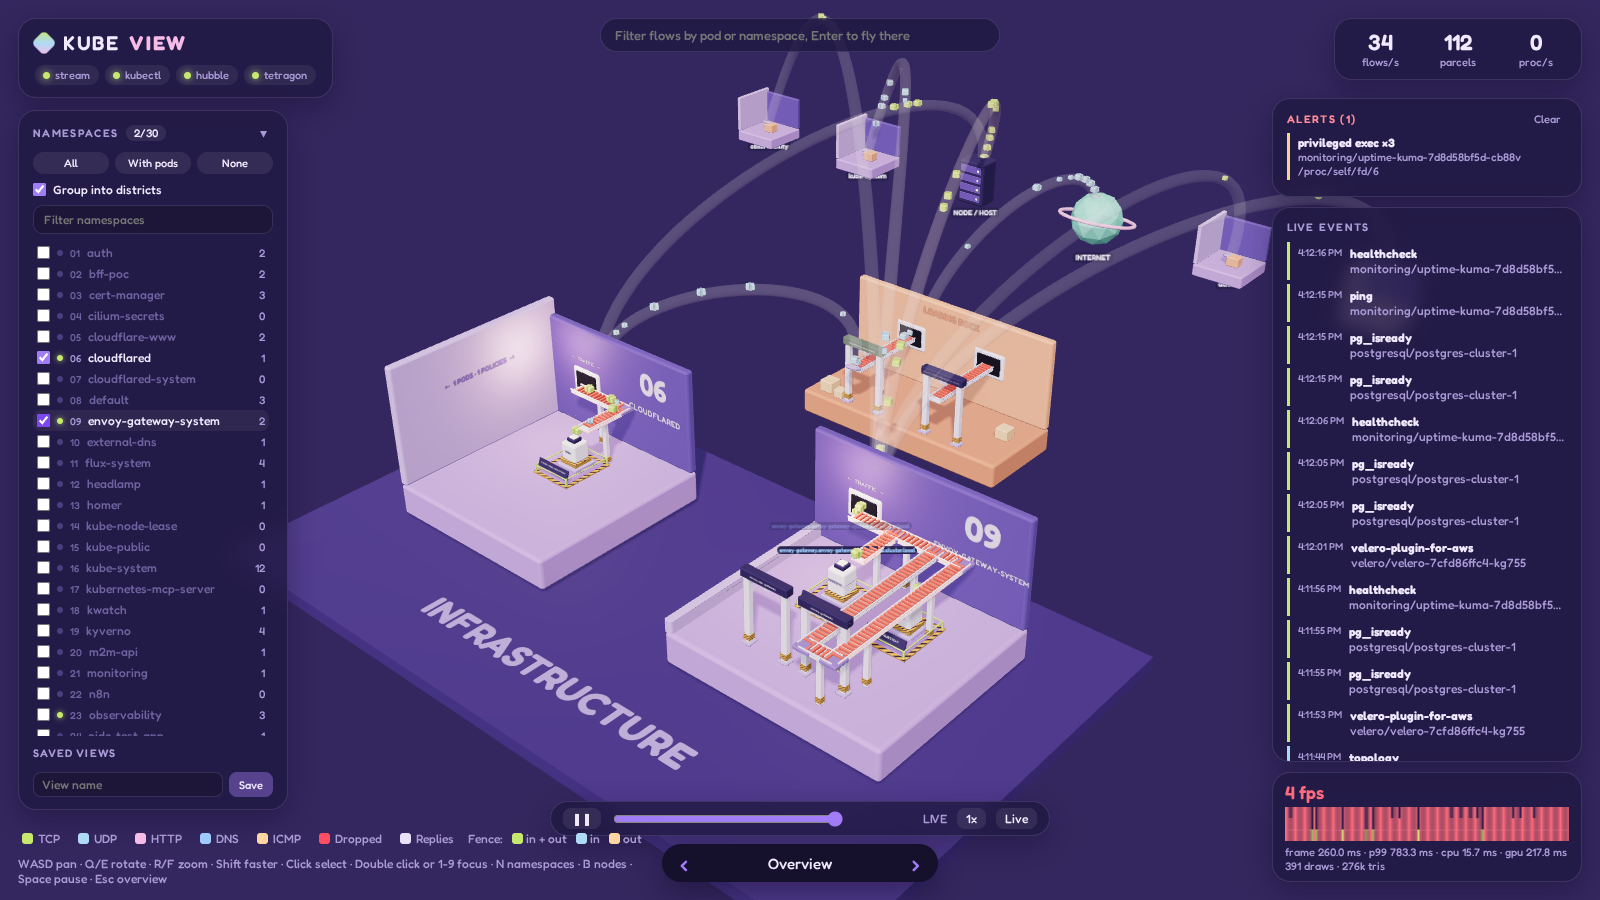
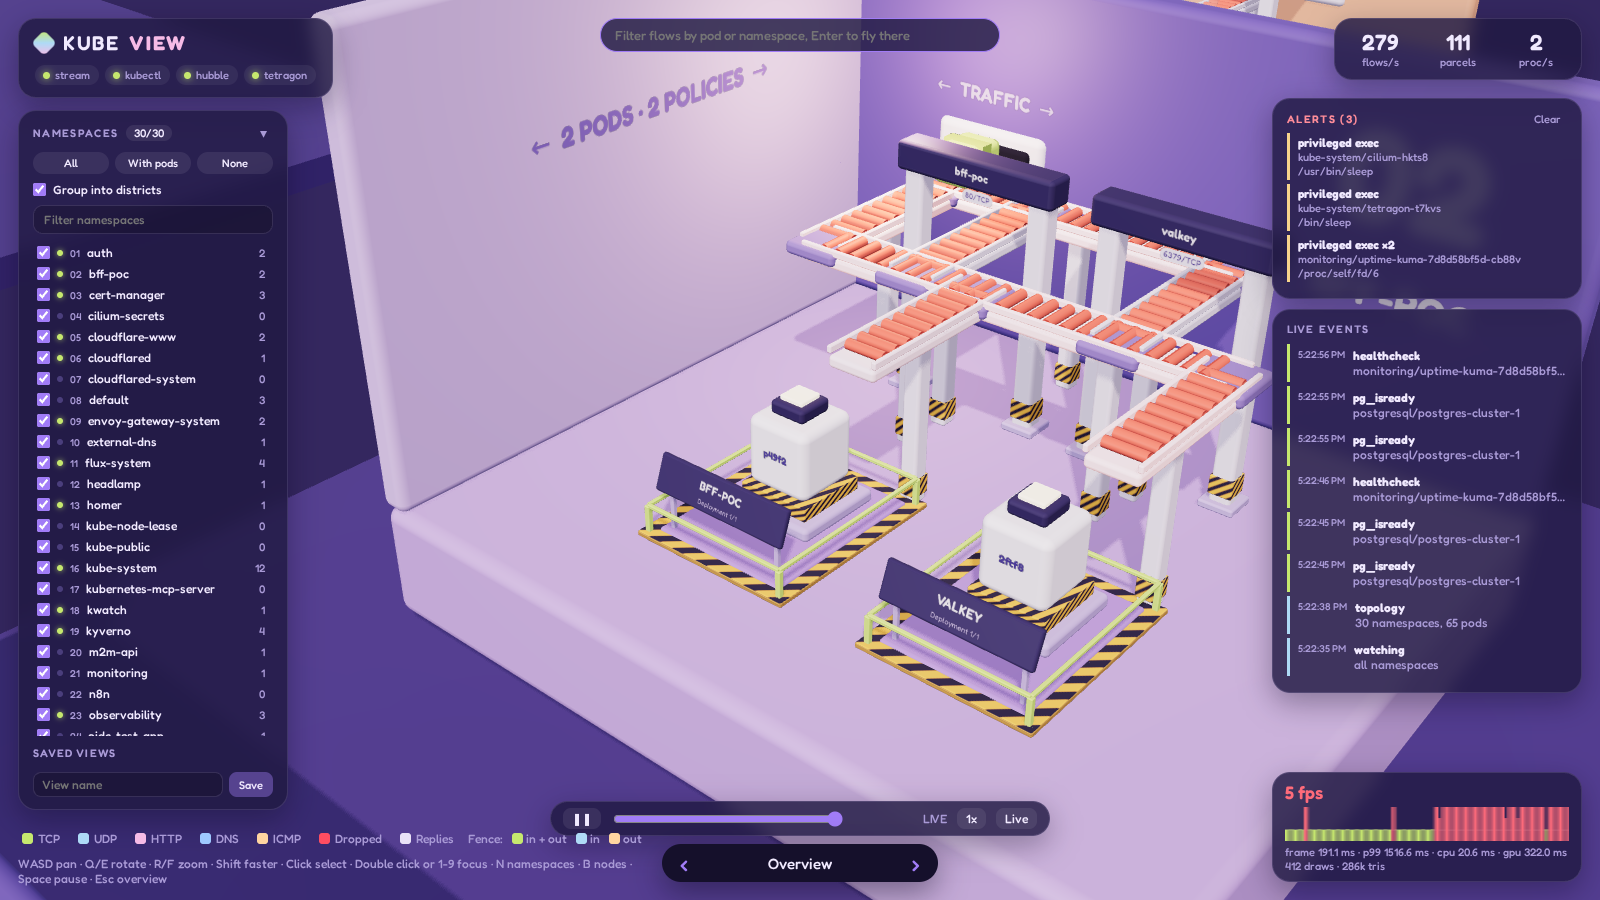
fix(scene): move service gates between trunk and pods

diff --git a/src/objects/NamespaceRoom.js b/src/objects/NamespaceRoom.js
@@ -22,7 +22,11 @@ const WALL_SPEED = 7
 const LABEL_MIN = 0.6
 const FOOTPRINT = 1.5
 const AISLE = CELL / 2
-const GATE_LANE = 2
+const TRUNK_OFFSET = WALL_T + 1.2
+const GATE_OFFSET = 2.6
+const LANE_OFFSET = 2.4
+const LANE_CLEARANCE = 2.2
+const FRONT_MARGIN = 3
 const ROOM_ALERT_TIME = 20
 const SUMMARY_CELL = 1.7
 const SUMMARY_POD = new THREE.BoxGeometry(1.2, 1, 1.2)
@@ -71,6 +75,7 @@ export class NamespaceRoom extends THREE.Group {
     this.buildSummary()
     this.belts = new BeltNetwork(this)
     this.detail.add(this.belts)
+    this.buildServiceBelts()
     this.userData.pick = { type: 'namespace', id: this.namespace, ns: this.namespace }
   }
 
@@ -102,10 +107,11 @@ export class NamespaceRoom extends THREE.Group {
 
     const gatesW = this.data.services.length * GATE_SPACING
     const width = Math.max(18, contentW + 10, gatesW + 6)
-    const depth = Math.max(17, contentD + 13)
+    const backRow = this.data.services.length ? TRUNK_OFFSET + GATE_OFFSET + LANE_OFFSET + LANE_CLEARANCE : WALL_T + 3.5
+    const depth = Math.max(17, contentD + backRow + FRONT_MARGIN)
 
     const left = -width / 2 + WALL_T + 2 + (width - WALL_T - 4 - contentW) / 2
-    const top = -depth / 2 + WALL_T + 3.5
+    const top = -depth / 2 + backRow
     for (const item of items) {
       item.cx = left + item.x + item.w / 2
       item.cz = top + item.z + item.d / 2
@@ -118,9 +124,9 @@ export class NamespaceRoom extends THREE.Group {
     const floor = block(W, 3, D, surface(palette.floor), { radius: 0.35, shared: false })
     floor.position.y = -1.5
 
-    this.trunkZ = -D / 2 + WALL_T + 1.2
-    this.gateZ = D / 2 - 3.2
-    this.gateLaneZ = this.gateZ + GATE_LANE
+    this.trunkZ = -D / 2 + TRUNK_OFFSET
+    this.gateZ = this.trunkZ + GATE_OFFSET
+    this.gateLaneZ = this.gateZ + LANE_OFFSET
     this.cutBack = false
     this.cutLeft = false
 
@@ -179,7 +185,8 @@ export class NamespaceRoom extends THREE.Group {
       })
     }
 
-    const services = this.data.services
+    const services = this.sortedServices()
+    this.bypassX = services.length ? (-(services.length - 1) / 2) * GATE_SPACING - GATE_SPACING / 2 : null
     services.forEach((service, i) => {
       const gate = new ServiceGate(service, this.namespace)
       gate.position.set((i - (services.length - 1) / 2) * GATE_SPACING, 0, this.gateZ)
@@ -189,6 +196,23 @@ export class NamespaceRoom extends THREE.Group {
       statics.push(gate)
     })
     batchStatic(this.detail, statics)
+  }
+
+  buildServiceBelts() {
+    for (const service of this.data.services) {
+      const target = { x: this.gates.get(service.name).position.x, z: this.gateLaneZ }
+      for (const pod of service.backends) {
+        if (this.stations.has(pod)) this.belts.prebuild(HATCH, pod, target)
+      }
+    }
+  }
+
+  sortedServices() {
+    const center = service => {
+      const xs = service.backends.map(name => this.stations.get(name)?.home.x).filter(x => x !== undefined)
+      return xs.length ? xs.reduce((sum, x) => sum + x, 0) / xs.length : Infinity
+    }
+    return [...this.data.services].sort((a, b) => center(a) - center(b))
   }
 
   buildSummary() {

diff --git a/src/objects/BeltNetwork.js b/src/objects/BeltNetwork.js
@@ -7,6 +7,7 @@ import { palette } from '../theme/palette.js'
 const PILLAR_GAP = 7
 const PILLAR_SEARCH = [0, 0.6, -0.6, 1.2, -1.2, 1.8, -1.8, 2.4, -2.4, 3, -3]
 const EPSILON = 0.01
+const HATCH = '__hatch__'
 
 export class BeltNetwork extends THREE.Group {
   constructor(room) {
@@ -22,15 +23,7 @@ export class BeltNetwork extends THREE.Group {
     const start = room.beltPoint(from)
     const end = room.beltPoint(to)
     const trunk = room.trunkZ
-    const waypoints = [start]
-
-    if (gate) {
-      waypoints.push([start[0], trunk], [gate.x, trunk], [gate.x, gate.z], [end[0], gate.z], end)
-    } else if (Math.abs(start[0] - end[0]) < EPSILON) {
-      waypoints.push(end)
-    } else {
-      waypoints.push([start[0], trunk], [end[0], trunk], end)
-    }
+    const waypoints = this.waypoints(from, to, start, end, gate)
 
     const points = waypoints.filter((p, i) => i === 0 || Math.hypot(p[0] - waypoints[i - 1][0], p[1] - waypoints[i - 1][1]) > EPSILON)
     const parts = []
@@ -42,6 +35,32 @@ export class BeltNetwork extends THREE.Group {
     const path = points.map(([x, z]) => new THREE.Vector3(x, y, z))
     const gateIndex = gate ? points.findIndex(p => Math.abs(p[0] - gate.x) < EPSILON && Math.abs(p[1] - gate.z) < EPSILON) : -1
     return { path, parts, gateIndex }
+  }
+
+  prebuild(from, to, gate) {
+    for (const part of this.plan(from, to, gate).parts) part.keep = true
+  }
+
+  waypoints(from, to, start, end, gate) {
+    const { room } = this
+    const trunk = room.trunkZ
+    const sameAisle = Math.abs(start[0] - end[0]) < EPSILON
+
+    if (room.bypassX === null) {
+      return sameAisle ? [start, end] : [start, [start[0], trunk], [end[0], trunk], end]
+    }
+
+    const lane = room.gateLaneZ
+    const toLane = point => [point[0], lane]
+    const toTrunk = [[room.bypassX, lane], [room.bypassX, trunk]]
+
+    if (gate) {
+      const entry = from === HATCH ? [start] : [start, toLane(start), ...toTrunk]
+      return [...entry, [gate.x, trunk], [gate.x, lane], toLane(end), end]
+    }
+    if (from === HATCH) return [start, [room.bypassX, trunk], [room.bypassX, lane], toLane(end), end]
+    if (to === HATCH) return [start, toLane(start), ...toTrunk, end]
+    return sameAisle ? [start, end] : [start, toLane(start), toLane(end), end]
   }
 
   lane(a, b) {
@@ -110,7 +129,7 @@ export class BeltNetwork extends THREE.Group {
   prune(now, idleMs) {
     for (const map of [this.lanes, this.junctions]) {
       for (const [key, part] of map) {
-        if (now - part.lastUsed < idleMs) continue
+        if (part.keep || now - part.lastUsed < idleMs) continue
         this.remove(part.object)
         disposeTree(part.object)
         map.delete(key)

diff --git a/src/objects/WorkloadPad.js b/src/objects/WorkloadPad.js
@@ -5,6 +5,7 @@ import { hazardMaterial } from '../theme/textures.js'
 import { palette } from '../theme/palette.js'
 
 const RAIL_Y = 0.8
+const SIGN_Y = 1.6
 
 export class WorkloadPad extends THREE.Group {
   constructor(workload, width, depth, ns, fence = null) {
@@ -23,12 +24,12 @@ export class WorkloadPad extends THREE.Group {
     const kind = textPlane(`${workload.kind} ${workload.ready}/${workload.desired}`, 0.24, { color: '#b9a8e4', maxWidth: boardWidth - 0.3, weight: 500 })
     kind.position.set(0, -0.24, 0.08)
     sign.add(board, name, kind)
-    sign.position.set(0, 0.95, depth / 2 - 0.55)
+    sign.position.set(0, SIGN_Y, depth / 2 - 0.55)
     sign.rotation.x = -0.35
 
     for (const x of [-boardWidth / 2 + 0.3, boardWidth / 2 - 0.3]) {
-      const leg = block(0.12, 0.6, 0.12, surface(palette.metal), { radius: 0.03 })
-      leg.position.set(x, 0.45, depth / 2 - 0.6)
+      const leg = block(0.12, SIGN_Y - 0.15, 0.12, surface(palette.metal), { radius: 0.03 })
+      leg.position.set(x, (SIGN_Y + 0.15) / 2, depth / 2 - 0.6)
       this.add(leg)
     }
     this.add(sign)

diff --git a/docs/design.md b/docs/design.md
@@ -19,7 +19,7 @@ An isometric factory diorama: solid rounded primitives, a small harmonious palet
 | Workload | Hazard striped pad with a tilted name sign |
 | Network policy | Fence around the pad: green restricts both directions, blue ingress only, peach egress only, none means not fully restricted |
 | Pod | Machine with a lamp, height by container count, color by status |
-| Service | Tall gate arch near the front of the room, service traffic rides through it |
+| Service | Tall gate arch between the trunk and the pods, service traffic rides through it |
 | Entry point (LoadBalancer, NodePort, Gateway, tunnel) | Bay of the loading dock with a sign |
 | Node | Plate in the node yard with one block per pod, colored by namespace |
 | Flow inside a room | Parcel on the belt network |
@@ -49,4 +49,10 @@ An isometric factory diorama: solid rounded primitives, a small harmonious palet
 
 ## Belt network
 
-Each room has a trunk along the back wall, columns in the aisles between machines and a lane behind the gates. Lanes grow on demand and disappear after two idle minutes. Belts run in the aisles so lamps and labels stay visible. Pillars avoid machines, signs and gates.
+From back to front, a room has the hatch, a trunk along the back wall, a row of service gates, a distribution lane and the pods. Service traffic flows in one direction: hatch, trunk, through the arch, distribution lane, down the aisle, into the pod.
+
+Traffic that skips the service (node probes, replies) uses one bypass column next to the gates, so only that column and the arches cross the gate row. Rooms without services have no gate row, their aisles connect directly to the trunk.
+
+The belts of a service with backend pods always exist, so its arch always stands over a belt, even without traffic. A service without pods keeps a free standing arch. All other lanes grow on demand and disappear after two idle minutes. Belts run in the aisles so lamps and labels stay visible. Pillars avoid machines, signs and gates.
+
+A gate is a logical stop, not a network hop: Cilium rewrites the service address before the packet travels, so Hubble mostly reports pod to pod. The gate is inferred from destination pod and service `targetPort`.
